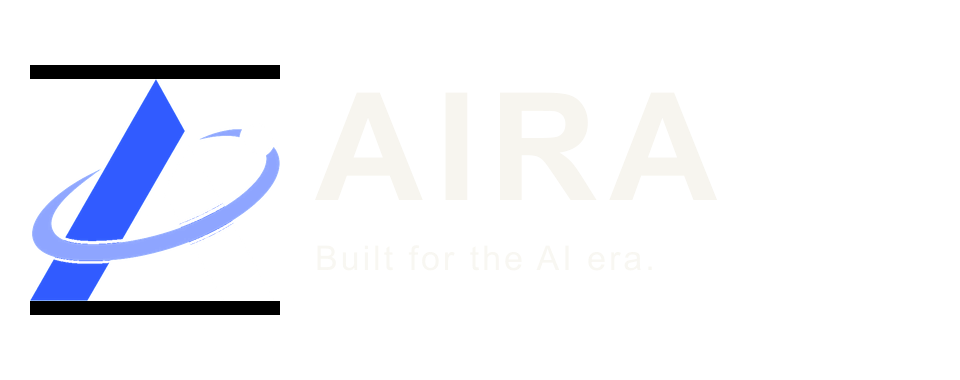
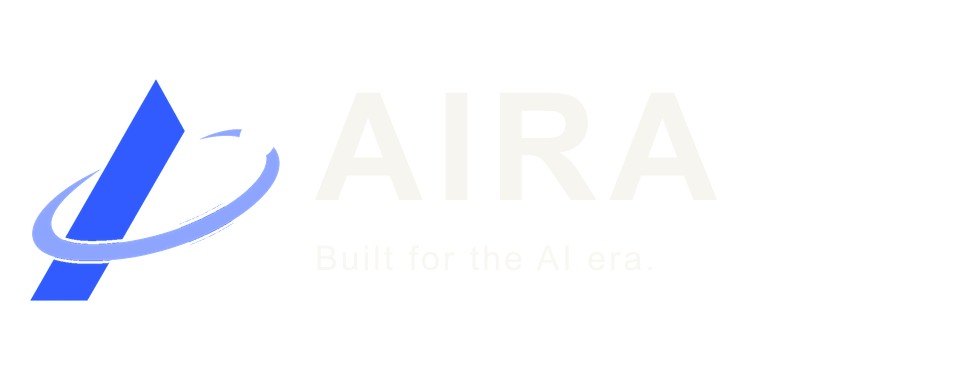
Refine AIRA branding and capability showcase

Changed region(s): [[0.0312, 0.7816, 0.3125, 0.8395], [0.0312, 0.1737, 0.3125, 0.2316]]

diff --git a/components/StudioExperience.tsx b/components/StudioExperience.tsx
@@ -66,9 +66,9 @@ const technologies = [
 ];
 
 const projects = [
-  { no: "01", name: "VSFeed", type: "VS Code extension · Shipped", copy: "A context-aware social feed for idle moments in development, designed to reduce context switching and make returning to work easier.", href: "https://marketplace.visualstudio.com/items?itemName=PrathameshNikam.vsfeed", className: "project-vsfeed", proof: "Available on VS Marketplace" },
-  { no: "02", name: "CanIPlay", type: "Network intelligence · Open source", copy: "A network feasibility and latency analysis tool that helps players understand whether an online game will work well on their connection.", href: "https://github.com/Prathmesh333/CanIPlay", className: "project-caniplay", proof: "Explore the repository" },
-  { no: "03", name: "Distributed AI research", type: "Experimental engineering", copy: "Hands-on work across distributed machine learning, retrieval systems and AI infrastructure, translating research into working technical systems.", href: "https://github.com/Prathmesh333/ray", className: "project-research", proof: "View the research work" },
+  { no: "01", name: "Commerce platforms", type: "Web · Mobile · Operations", copy: "A complete online store with thoughtful product discovery, payments, inventory, analytics and the internal tools needed to run it.", className: "project-vsfeed", proof: "Explore this direction" },
+  { no: "02", name: "Healthcare operations", type: "Scheduling · Records · Insights", copy: "A secure workspace for appointments, patient information, team coordination and clear operational reporting.", className: "project-caniplay", proof: "Explore this direction" },
+  { no: "03", name: "Learning platforms", type: "Courses · Progress · Community", copy: "A modern learning experience with interactive content, progress tracking, assessments and reporting for learners and teams.", className: "project-research", proof: "Explore this direction" },
 ];
 
 function Mark({ theme }: { theme: "light" | "dark" }) {
@@ -115,7 +115,7 @@ export default function StudioExperience() {
     <header className="nav-shell">
       <a className="brand" href="#top" aria-label="AIRA home"><BrandLogo theme={theme} /></a>
       <nav className={menu ? "nav-links open" : "nav-links"} aria-label="Main navigation">
-        <a href="#services" onClick={() => setMenu(false)}>What we build</a><a href="#work" onClick={() => setMenu(false)}>Real work</a><a href="#capabilities" onClick={() => setMenu(false)}>Possibilities</a><a href="#process" onClick={() => setMenu(false)}>Process</a><a href="#about" onClick={() => setMenu(false)}>About</a>
+        <a href="#services" onClick={() => setMenu(false)}>What we build</a><a href="#work" onClick={() => setMenu(false)}>Product ideas</a><a href="#capabilities" onClick={() => setMenu(false)}>Possibilities</a><a href="#process" onClick={() => setMenu(false)}>Process</a><a href="#about" onClick={() => setMenu(false)}>About</a>
       </nav>
       <div className="nav-actions"><button className="theme-toggle" onClick={toggleTheme} aria-label={`Switch to ${theme === "light" ? "dark" : "light"} mode`}>{theme === "light" ? <Moon weight="bold" /> : <Sun weight="bold" />}</button><a className="nav-cta" href="#contact">Tell us your idea <ArrowRight weight="bold" /></a></div>
       <button className="menu-button" onClick={() => setMenu(!menu)} aria-label="Toggle navigation">{menu ? <X /> : <List />}</button>
@@ -164,10 +164,10 @@ export default function StudioExperience() {
     </section>
 
     <section className="work" id="work">
-      <Reveal className="work-heading"><p className="kicker">What we have built</p><h2>Real work.<br /><em>Public proof.</em></h2><p>Shipped products, open-source tools and technical research you can inspect for yourself.</p></Reveal>
+      <Reveal className="work-heading"><p className="kicker">What we can build</p><h2>Useful software.<br /><em>Made around you.</em></h2><p>These are examples of the product directions AIRA can design and develop around your business, users and goals.</p></Reveal>
       <div className="project-stack">{projects.map((project, index) => <Reveal className={`project ${project.className}`} key={project.name}>
         <div className="project-signal" aria-hidden="true"><span /><span /><span /><span /></div>
-        <div className="project-copy"><span>{project.no}</span><h3>{project.name}</h3><strong>{project.type}</strong><p>{project.copy}</p><a href={project.href} target="_blank" rel="noreferrer" aria-label={`${project.proof}: ${project.name}`}><ArrowUpRight /></a><small>{project.proof}</small></div>
+        <div className="project-copy"><span>{project.no}</span><h3>{project.name}</h3><strong>{project.type}</strong><p>{project.copy}</p><a href="#contact" aria-label={`${project.proof}: ${project.name}`}><ArrowUpRight /></a><small>{project.proof}</small></div>
       </Reveal>)}</div>
     </section>
 

diff --git a/app/globals.css b/app/globals.css
@@ -38,3 +38,7 @@ main{--brand-coral:#ff5c5c;--brand-amber:#ffb84d}.nav-cta,.primary{background:li
 /* Final flat cool-blue identity */
 .nav-shell>.brand,.footer-brand{padding:10px 18px;border-radius:16px;background:#0b1538}.aira-logo{width:158px;height:48px}.aira-tagline{width:260px;height:88px}.nav-cta,.primary,.idea-input button{background:#315bff;color:#fff;box-shadow:0 14px 34px rgba(49,91,255,.22)}.kicker{color:#315bff}.product-core{border-color:rgba(49,91,255,.24);box-shadow:0 16px 42px rgba(49,91,255,.12)}.product-core .aira-mark{box-sizing:border-box;width:54px;height:54px;padding:7px;border-radius:12px;background:#0b1538;filter:none}main[data-theme="dark"] .nav-cta,main[data-theme="dark"] .primary,main[data-theme="dark"] .idea-input button{background:#8fa6ff;color:#071326;box-shadow:0 14px 34px rgba(49,91,255,.2)}main[data-theme="dark"] .kicker{color:#8fa6ff}
 @media(max-width:650px){.nav-shell>.brand{padding:7px 11px}.aira-logo{width:126px;height:40px}.aira-tagline{width:220px;height:78px}}
+
+/* Wordmark sits directly in the layout; only its compact symbol carries a backing tile. */
+.nav-shell>.brand,.footer-brand{padding:0;background:transparent;border:0;border-radius:0;box-shadow:none}main[data-theme="dark"] .nav-shell>.brand,main[data-theme="dark"] .footer-brand{padding:0;background:transparent;border:0;box-shadow:none}.aira-logo{width:170px;height:52px}.aira-tagline{width:275px;height:92px}
+@media(max-width:650px){.nav-shell>.brand{padding:0}.aira-logo{width:136px;height:42px}.aira-tagline{width:225px;height:80px}}
